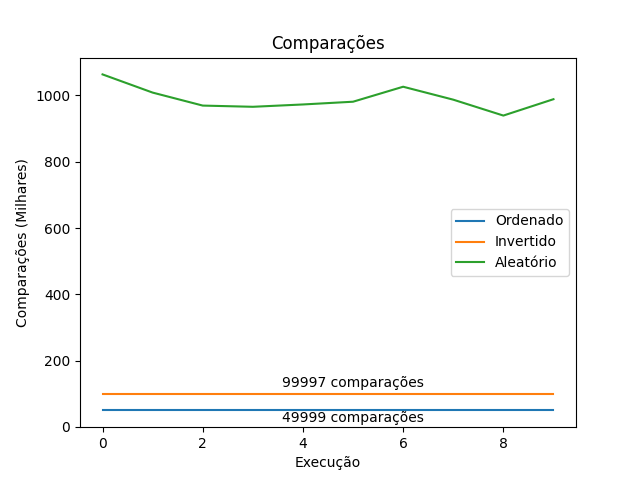
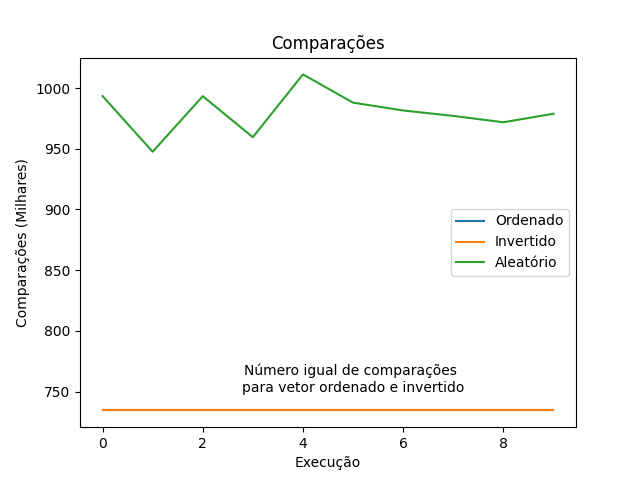
finalizado

diff --git a/quicksort.cpp b/quicksort.cpp
@@ -63,6 +63,24 @@ void gera_vetor_aleatorio(int *vetor, int n) {
 	}
 }
 
+const int ORDENADO = 1;
+const int ALEATORIO = 2;
+const int INVERTIDO = 3;
+
+void geraVetor(int *vet, int n, int opcao){
+    switch (opcao){
+        case 1:
+            gera_vetor_ordenado_ASC(vet, n);
+            break;
+        case 2:
+            gera_vetor_aleatorio(vet, n);
+            break;
+        case 3:
+            gera_vetor_ordenado_DESC(vet, n);
+            break;
+    }
+}
+
 
 // Declarando as vari?veis globais que armazenar?o
 // o n?mero de comapara??es e de trocas feitas durante a ordena??o
@@ -111,76 +129,19 @@ void quickSort(int vet[], int ini, int fim){
 }
 
 
-void geraVetor(int *vet, int n, int opcao){
-    switch (opcao){
-        case 1:
-            gera_vetor_ordenado_ASC(vet, n);
-            break;
-        case 2:
-            gera_vetor_aleatorio(vet, n);
-            break;
-        case 3:
-            gera_vetor_ordenado_DESC(vet, n);
-            break;
-    }
-}
-
-bool verificarVetor(int *vet, int n){
-
-    int elementosErrados = 0;
-    bool ordenado = true;
-
-    for (int j = 1; j < n; j++){
-        if (vet[j-1] > vet[j]){
-            // printf("Erro: %d antes de %d\n", vet[j-1], vet[j]);
-            elementosErrados++;
-            ordenado = false;
-        }
-    }
-    if (!ordenado){
-        printf("\nFalha ao ordenar vetor: %d elementos errados\n\n", elementosErrados);
-        return false;
-    }
-    return true;
-}
-
-// Função para testes para validar se o vetor está 100% ordenado
-bool validar(int *vet, int n, int opcao, int numTestes){
-
-    bool ordenado;
-    int i;
-	for (i = 0; i < numTestes; i++){
-
-		printf("%d\r", i);
-
-        geraVetor(vet, n, opcao);
-		quickSort(vet, 0, n-1);
-        ordenado = verificarVetor(vet, n);
-        if (!ordenado){
-            break;
-        }
-        
-    }
-    printf("Foram ordenados %d vetores com sucesso\n", i);
-    return true;
-}
-
 int main(){
 
     // Gerar um vetor com 50000 n?meros
     int n = 50000;
     int vet[n];
-    // gera_vetor_aleatorio(vet, n);
-    // gera_vetor_ordenado_ASC(vet, n);
-    // gera_vetor_ordenado_DESC(vet, n);
-    // imprime_vetor(vet,n);
+
+    geraVetor(vet, n, ALEATORIO);
 
     // Tempo inicial da execu??o
     float t = clock();
 
     // Ordenar vetor
-    // Do ?ndice 0 at? o ?ltimo para ordenar todo o vetor
-    geraVetor(vet, n, 1);
+    // Do indice 0 ate o ultimo para ordenar todo o vetor
     quickSort(vet, 0, n-1);
 
     // Calcular o tempo total de execu??o
@@ -191,7 +152,6 @@ int main(){
     printf("Quantidade de Comparacoes: %d\n", quantComparacoes);
     printf("Quantidade de trocas: %d\n\n", quantTrocas);
     // imprime_vetor(vet, n);
-    // validar(vet, n, 2, 10000);
 
 
     return 0;
